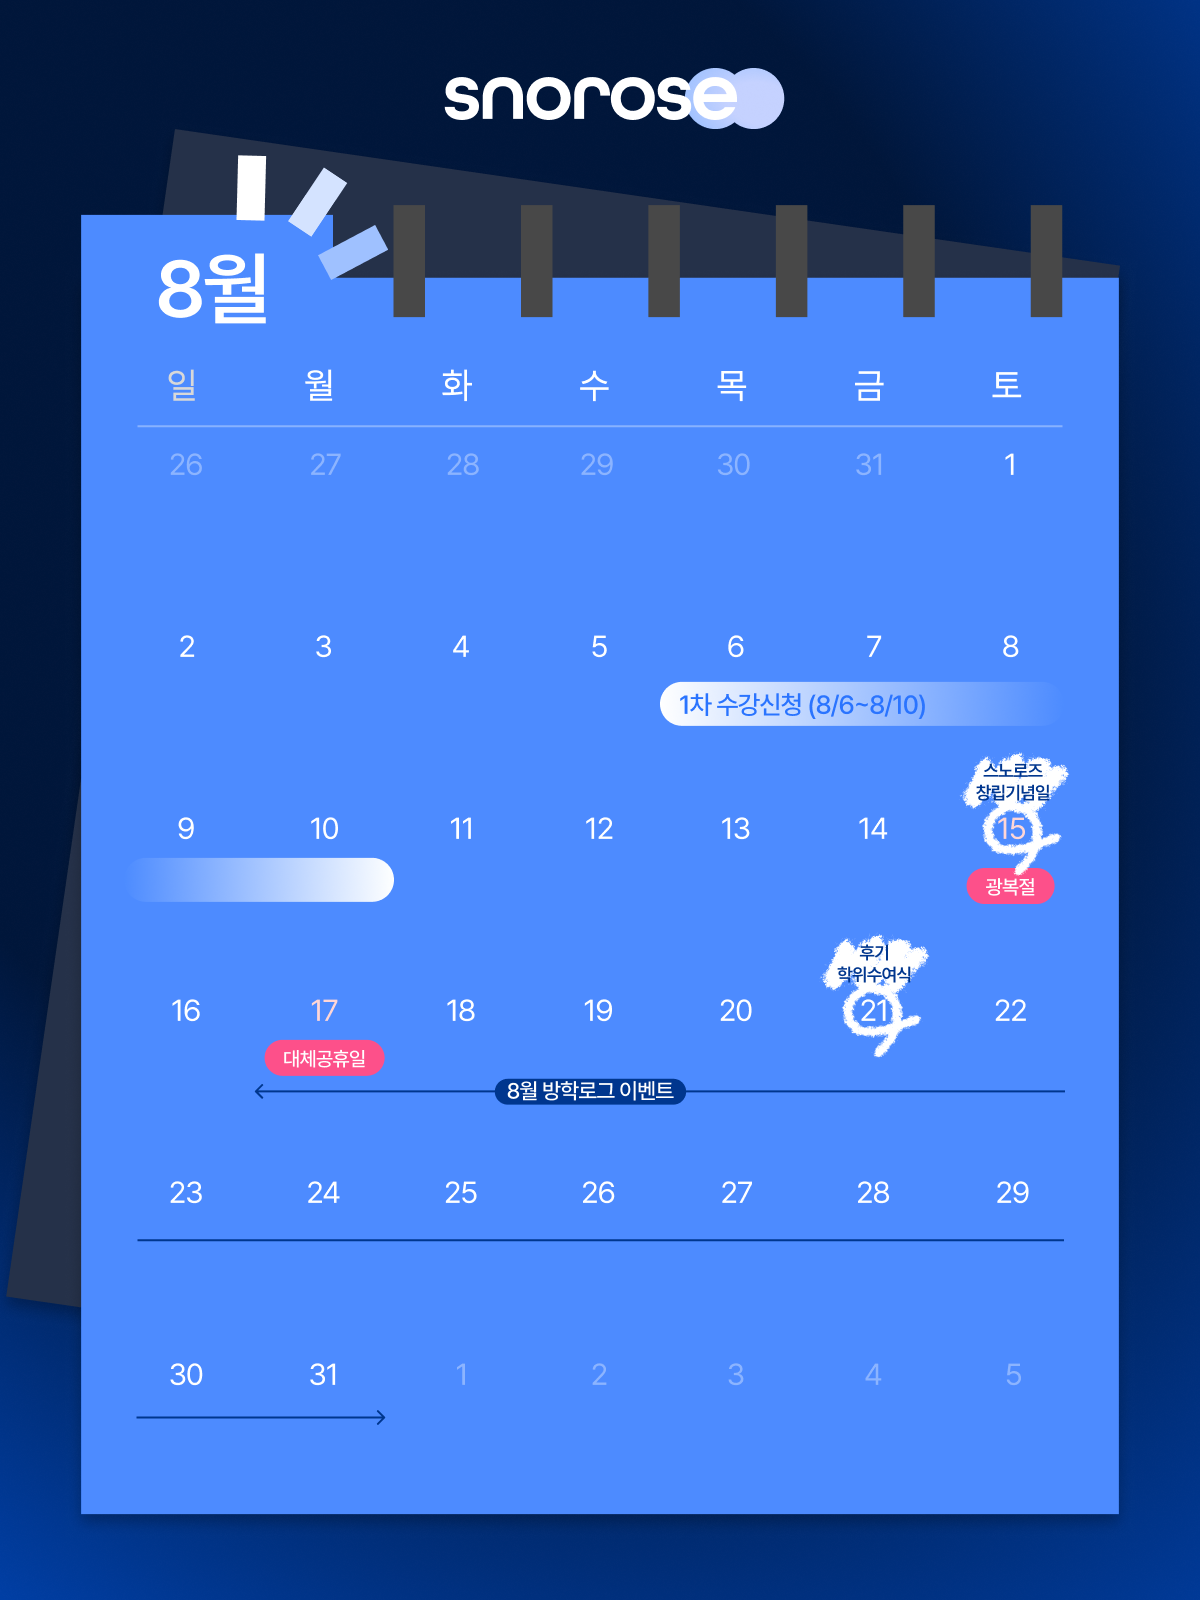
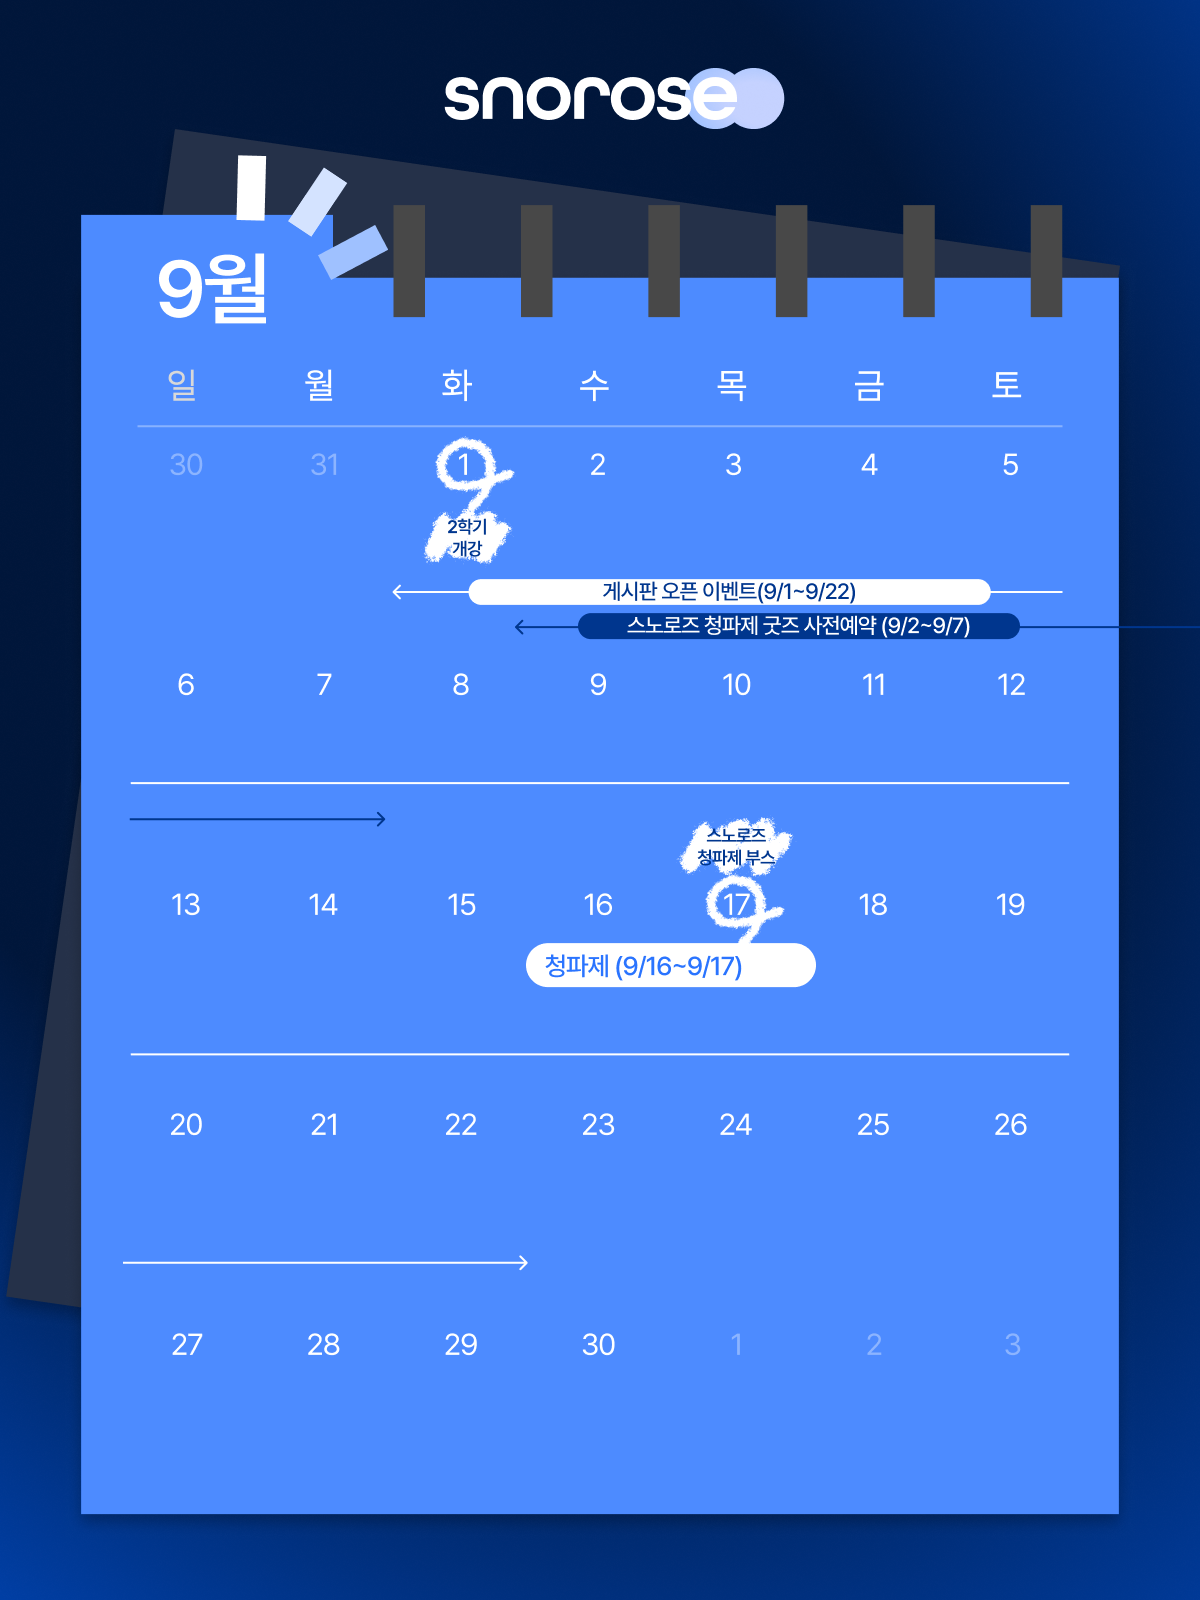
[SNO-531] #1815 9월 스노로즈 캘린더 팝업 일정 반영 (#1816)
* modify: 9월 스노로즈 캘린더 팝업 일정 반영

* feat: 이벤트 소식 추가

* modify: 캘린더 이미지 교체

* chore: 홈 팝업 공지 링크를 최신 게시글로 교체

diff --git a/src/feature/home/component/PopUp/PopUpContents.jsx b/src/feature/home/component/PopUp/PopUpContents.jsx
@@ -2,7 +2,7 @@ import { Link } from 'react-router-dom';
 
 import calendarImage from './calendar.png';
 import eventImage from './event.png';
-import newFeatureImage from './hashtag.png';
+import newBoard from './newBoard.png';
 import styles from './PopUpContents.module.css';
 
 /**
@@ -45,19 +45,24 @@ const POPUP_CONTENTS = [
     endDate: '2026-05-04',
   },
   {
-    title: '[신규 기능] 해시태그 기능 오픈 안내',
+    title: '숙플레이스 및 주거 게시판 오픈 이벤트 안내',
     description:
-      '글 작성 시 #스노로즈, #꿀팁, #대학생활 등 관심 있는 키워드를 자유롭게 해시태그로 추가해 보세요! ✍✨\n\n게시글에 등록된 해시태그를 클릭하면 같은 주제의 글을 한눈에 모아볼 수 있습니다. 🔍',
-    image: newFeatureImage,
+      '숙플레이스와 주거 게시판 오픈을 기념해 후기 이벤트가 진행됩니다.',
+    contentList: [
+      '참여 기간: 2026년 9월 1일(화) ~ 9월 22일(화)',
+      '참여 방법: 숙플레이스 또는 주거 게시판에 필수 해시태그와 조건에 맞춰 후기 작성',
+      '보상: 조건 충족 참여자 전원 10 point, 우수 작성자 추가 20 point 지급',
+    ],
+    image: newBoard,
     link: [
       {
         title: '스노로즈 공지',
-        url: '/board/notice/post/1913883',
+        url: '/board/notice/post/1915197',
         isExternal: false,
       },
     ],
-    startDate: '2026-08-17',
-    endDate: '2026-08-25',
+    startDate: '2026-08-30',
+    endDate: '2026-09-05',
   },
   {
     title: '[공지] 스노로즈 서버 점검 안내',
@@ -91,10 +96,10 @@ const POPUP_CONTENTS = [
     endDate: '2026-08-10',
   },
   {
-    title: '[캘린더] 8월 스노로즈 일정',
+    title: '[캘린더] 9월 스노로즈 일정',
     image: calendarImage,
-    startDate: '2026-07-27',
-    endDate: '2026-08-10',
+    startDate: '2026-08-30',
+    endDate: '2026-09-10',
   },
   {
     title: '[공지] 시험후기 작성 기간 안내',
